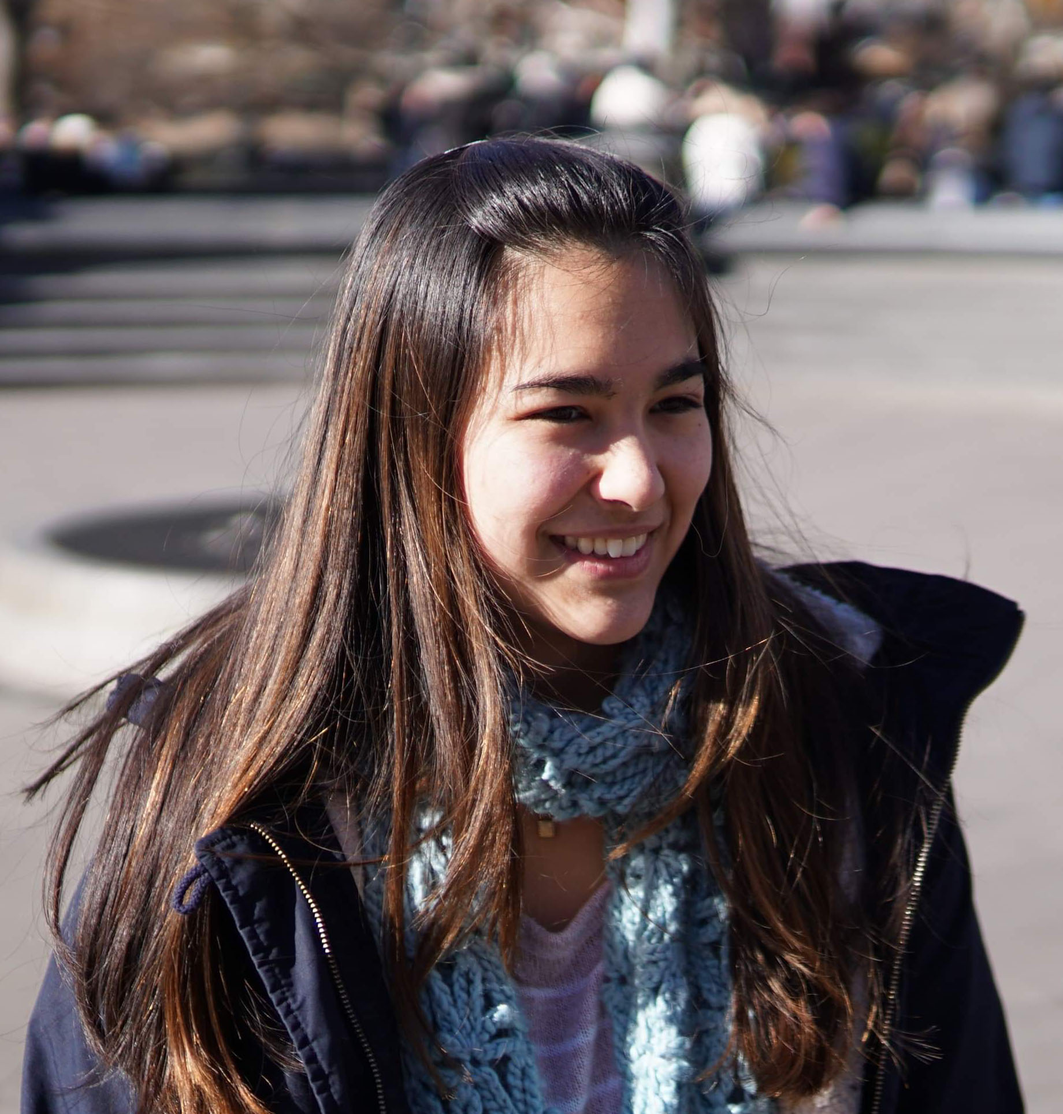
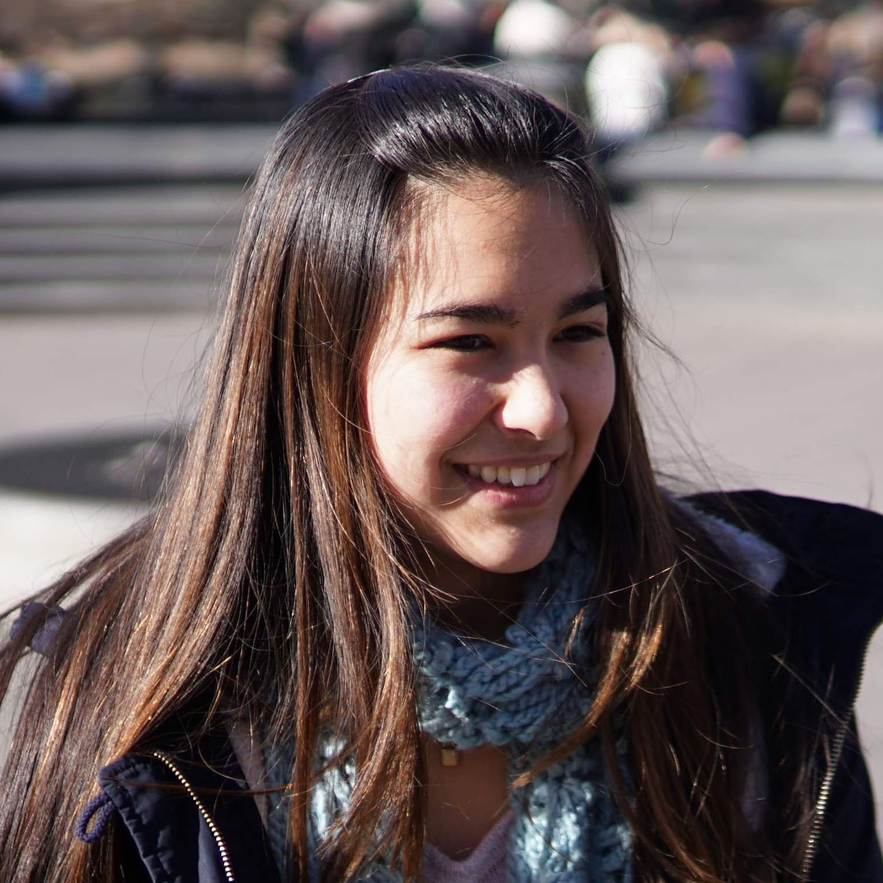
updated names and sarah's photo

diff --git a/index.html b/index.html
@@ -185,7 +185,7 @@
           <td>Rose Pagano</td>
           <td>Alexander Baikovitz</td>
           <td>Selina Du</td>
-          <td>Sarah Park</td>
+          <td>Jung Eun Park</td>
           <td>Makayla Filiere</td>
         </tr>
         <tr>
@@ -203,7 +203,7 @@
           <td>Mary Caffrey</td>
         </tr>
         <tr>
-          <td>Chelsea Cui</td>
+          <td>Aiqi Cui</td>
           <td>Julia Lagas</td>
           <td>Olivia Olshevski</td>
           <td>Conlon Novak</td>
@@ -251,14 +251,14 @@
         <!-- Grid column -->
         <div class="col-lg-3 col-md-6 mb-lg-0 mb-5">
           <div class="avatar mx-auto">
-            <img src="https://mdbootstrap.com/img/Photos/Avatars/img%20(3).jpg" class="rounded-circle z-depth-1"
+            <img src="img/sarah.png" class="rounded-circle z-depth-1"
               alt="Sample avatar" style="max-width: 200px;">
           </div>
-          <h5 class="font-weight-bold mt-4 mb-3">Sarah Park</h5>
+          <h5 class="font-weight-bold mt-4 mb-3">Jung Eun (Sarah) Park</h5>
           <p class="text-uppercase blue-text"><strong>Secretary</strong></p>
         </div>
         <!-- Grid column -->
-
+ 
         <!-- Grid column -->
         <div class="col-lg-3 col-md-6 mb-md-0 mb-5">
           <div class="avatar mx-auto">
@@ -293,7 +293,7 @@
             <img src="img/chelsea.png" class="rounded-circle z-depth-1"
               alt="Sample avatar" style="max-width: 200px;">
           </div>
-          <h5 class="font-weight-bold mt-4 mb-3">Chelsea Cui</h5>
+          <h5 class="font-weight-bold mt-4 mb-3">Aiqi (Chelsea) Cui</h5>
           <p class="text-uppercase blue-text"><strong>Historian/Webmaster</strong></p>
         </div>
         <!-- Grid column -->
